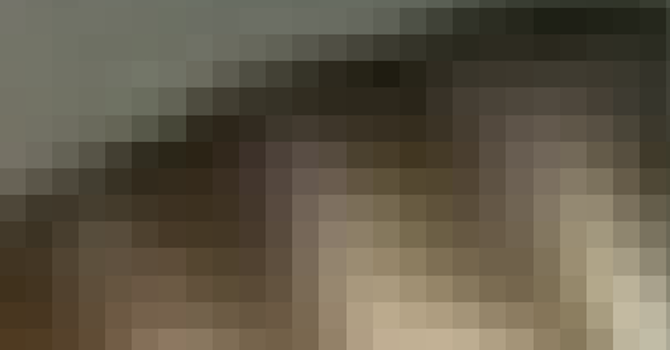
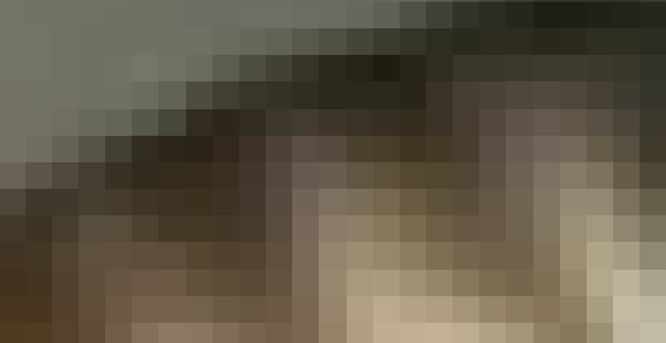
publish website with latest updates

diff --git a/docs/styles.2.css b/docs/styles.2.css
@@ -3,7 +3,7 @@
   box-sizing: border-box;
 }
 
-/* Template: ./b22.png */
+/* Template: ./b31.png */
 
 footer {
     background-color: #333;
@@ -73,7 +73,7 @@ header nav a {
 		/* Basic Styling */
 		html, body {
 			overflow-x: hidden; /* Prevent horizontal scrolling */
-            background-image: url('./b22.png');
+            background-image: url('./b31.png');
             background-size: cover; /* Ensures the image covers the entire viewport */
             background-repeat: no-repeat; /* Prevents the image from repeating */
             background-attachment: fixed; /* Optional: Keeps the background fixed while scrolling */

diff --git a/docs/styles.3.css b/docs/styles.3.css
@@ -3,7 +3,7 @@
   box-sizing: border-box;
 }
 
-/* Template: ./b11.png */
+/* Template: ./b12.png */
 
 footer {
     background-color: #333;
@@ -73,7 +73,7 @@ header nav a {
 		/* Basic Styling */
 		html, body {
 			overflow-x: hidden; /* Prevent horizontal scrolling */
-            background-image: url('./b11.png');
+            background-image: url('./b12.png');
             background-size: cover; /* Ensures the image covers the entire viewport */
             background-repeat: no-repeat; /* Prevents the image from repeating */
             background-attachment: fixed; /* Optional: Keeps the background fixed while scrolling */

diff --git a/docs/styles.1.css b/docs/styles.1.css
@@ -3,7 +3,7 @@
   box-sizing: border-box;
 }
 
-/* Template: ./b41.png */
+/* Template: ./b5.png */
 
 footer {
     background-color: #333;
@@ -73,7 +73,7 @@ header nav a {
 		/* Basic Styling */
 		html, body {
 			overflow-x: hidden; /* Prevent horizontal scrolling */
-            background-image: url('./b41.png');
+            background-image: url('./b5.png');
             background-size: cover; /* Ensures the image covers the entire viewport */
             background-repeat: no-repeat; /* Prevents the image from repeating */
             background-attachment: fixed; /* Optional: Keeps the background fixed while scrolling */

diff --git a/docs/styles.4.css b/docs/styles.4.css
@@ -3,7 +3,7 @@
   box-sizing: border-box;
 }
 
-/* Template: ./b38.png */
+/* Template: ./b1.png */
 
 footer {
     background-color: #333;
@@ -73,7 +73,7 @@ header nav a {
 		/* Basic Styling */
 		html, body {
 			overflow-x: hidden; /* Prevent horizontal scrolling */
-            background-image: url('./b38.png');
+            background-image: url('./b1.png');
             background-size: cover; /* Ensures the image covers the entire viewport */
             background-repeat: no-repeat; /* Prevents the image from repeating */
             background-attachment: fixed; /* Optional: Keeps the background fixed while scrolling */

diff --git a/docs/styles.6.css b/docs/styles.6.css
@@ -3,7 +3,7 @@
   box-sizing: border-box;
 }
 
-/* Template: ./b8.png */
+/* Template: ./b17.png */
 
 footer {
     background-color: #333;
@@ -73,7 +73,7 @@ header nav a {
 		/* Basic Styling */
 		html, body {
 			overflow-x: hidden; /* Prevent horizontal scrolling */
-            background-image: url('./b8.png');
+            background-image: url('./b17.png');
             background-size: cover; /* Ensures the image covers the entire viewport */
             background-repeat: no-repeat; /* Prevents the image from repeating */
             background-attachment: fixed; /* Optional: Keeps the background fixed while scrolling */
